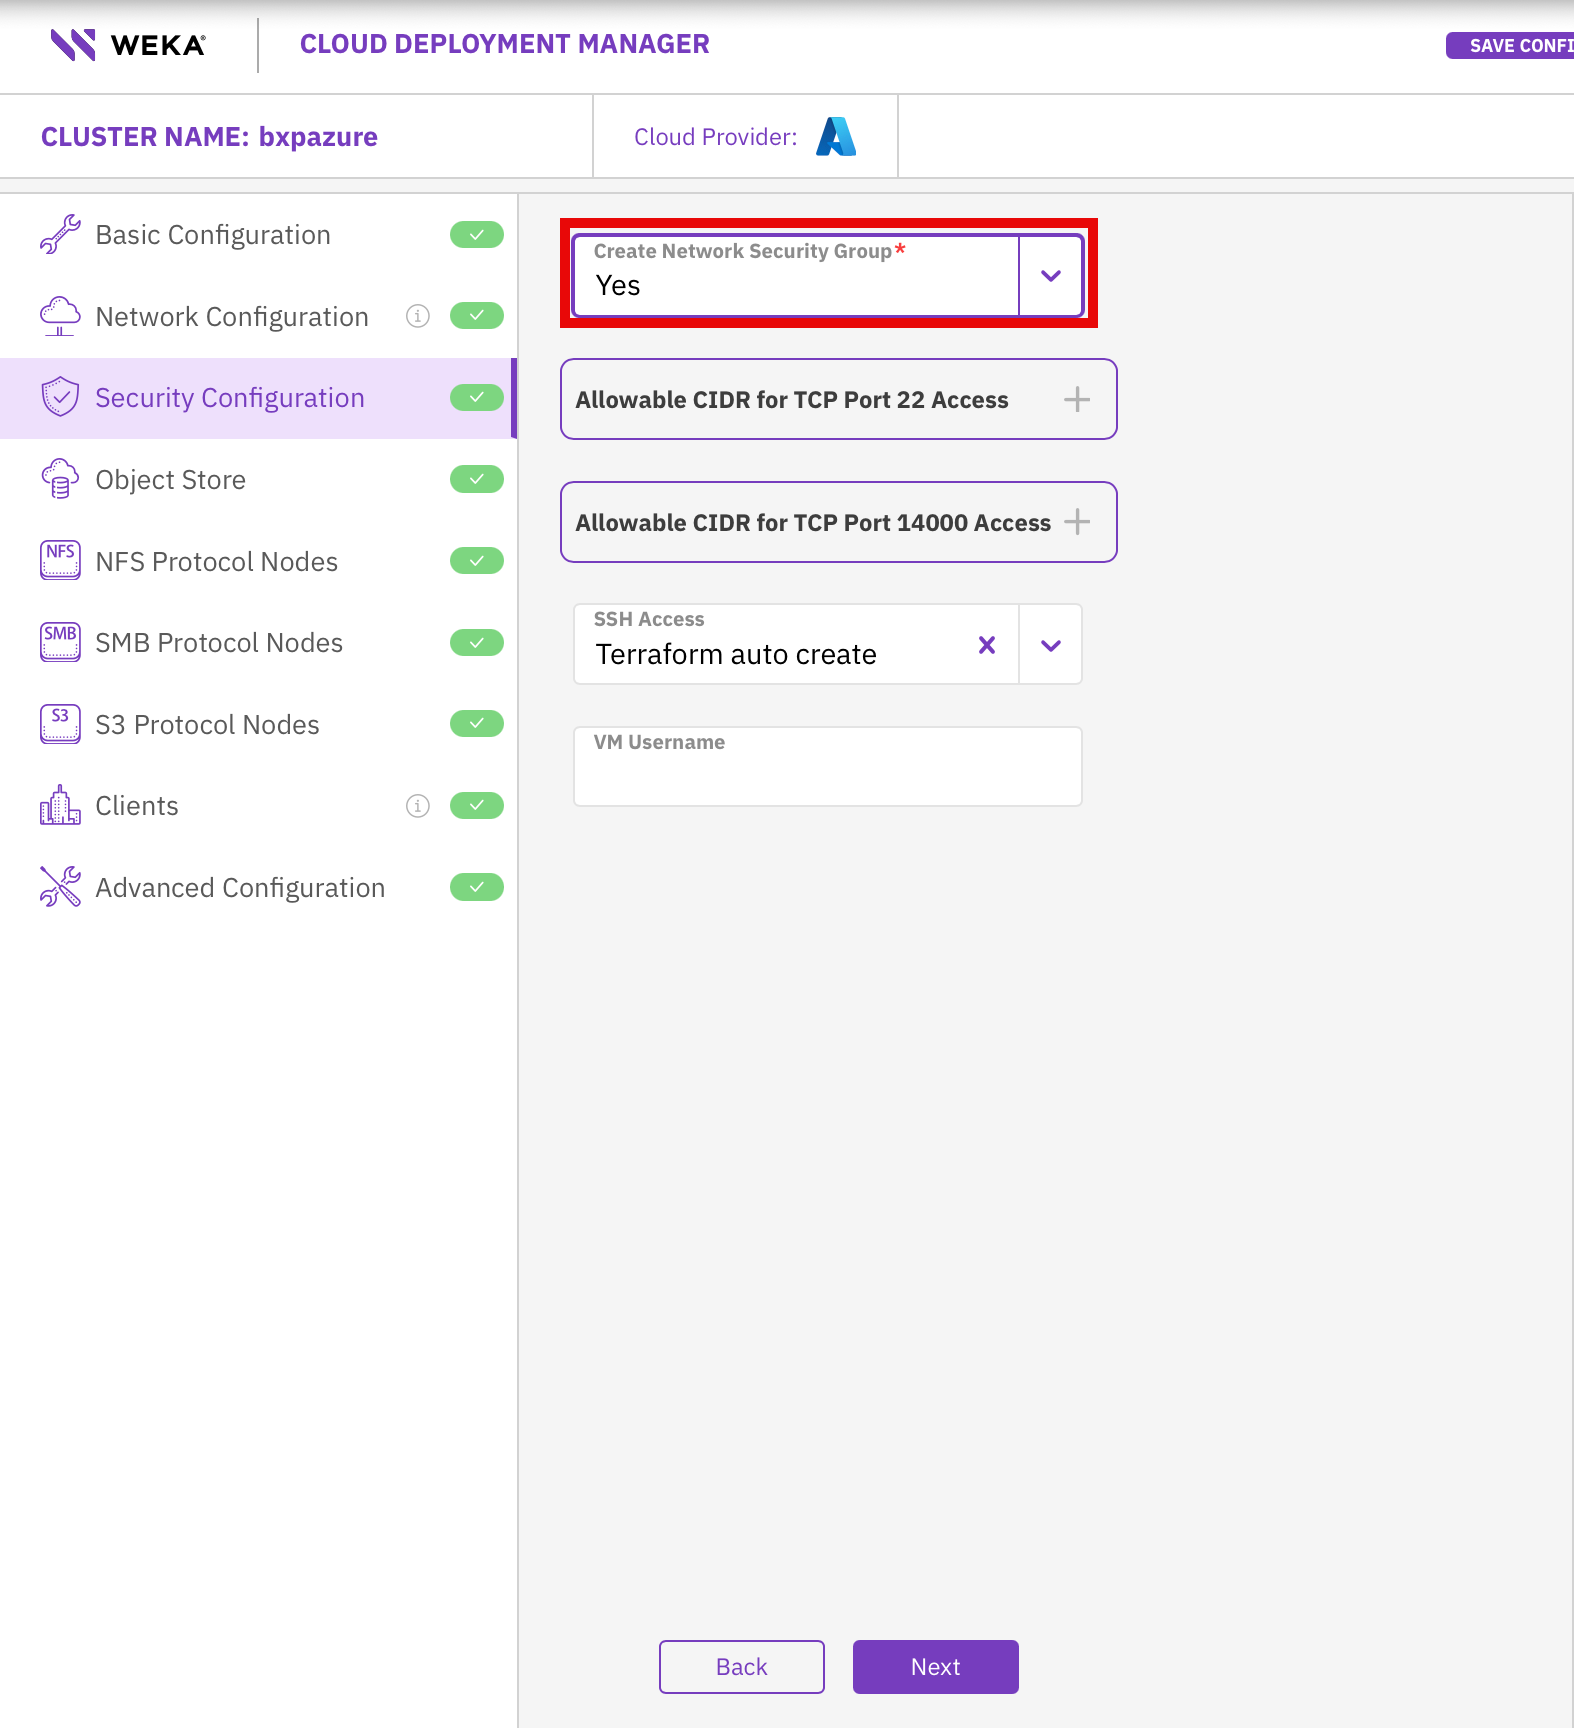
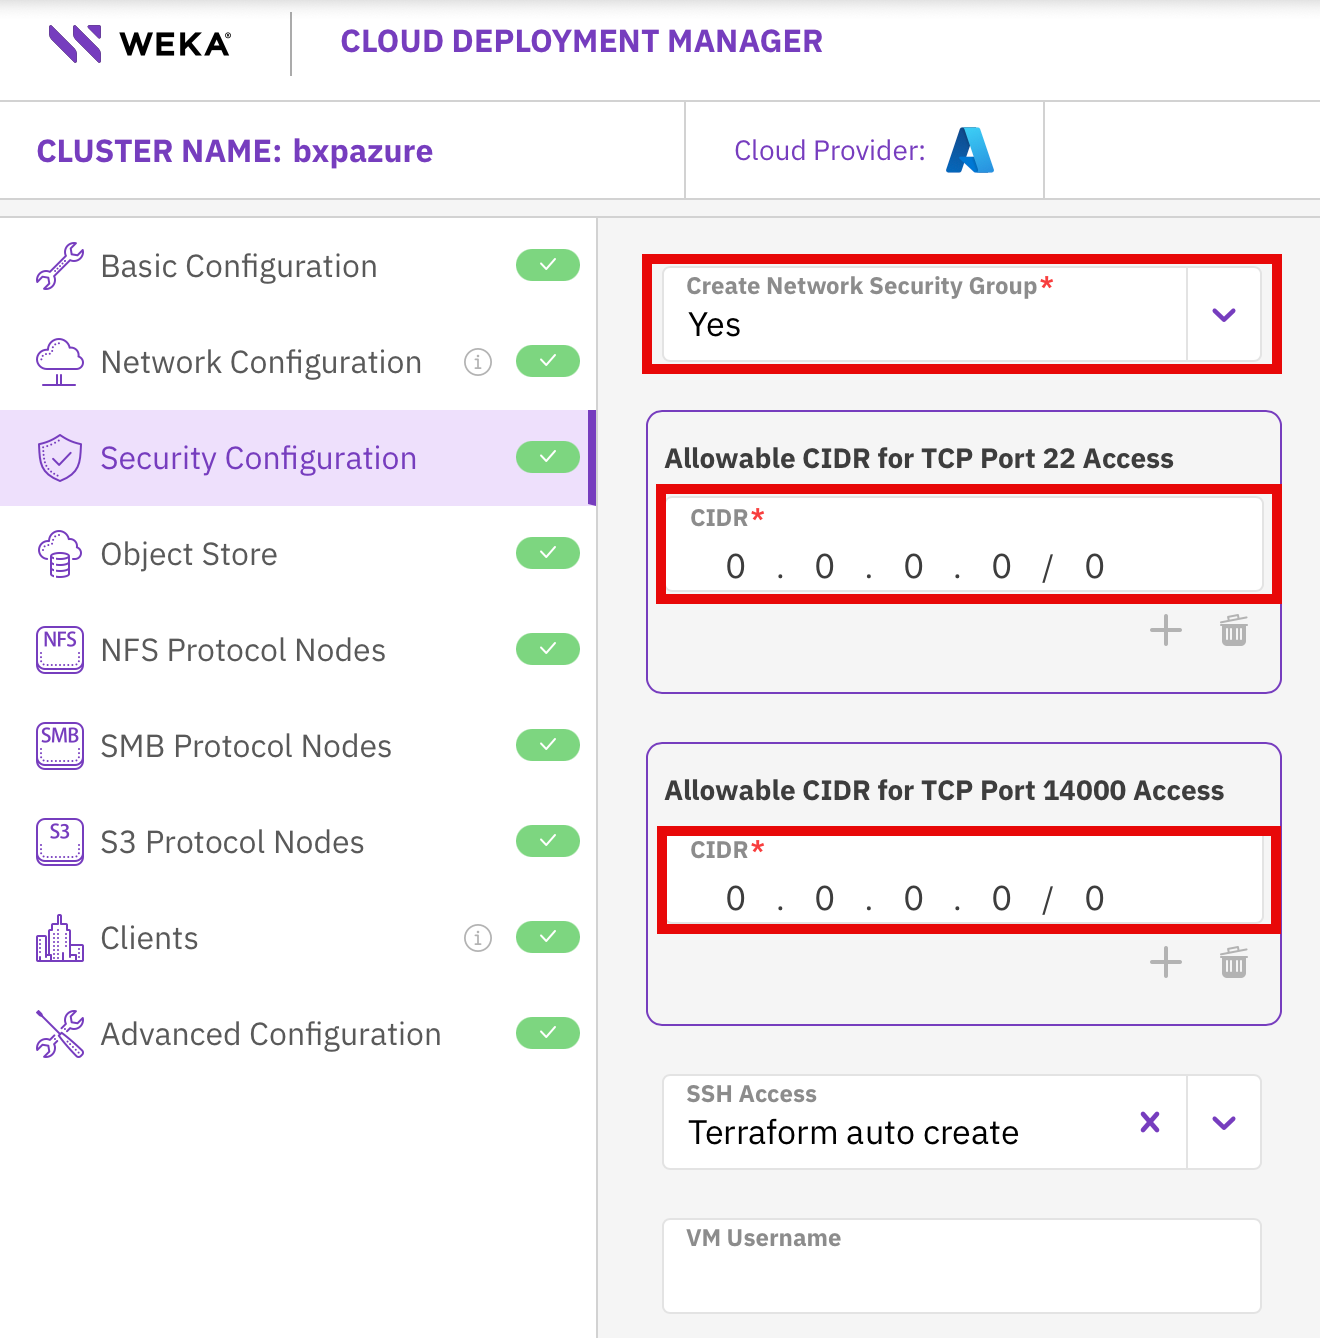
update lab

diff --git a/source/_static/custom.css b/source/_static/custom.css
@@ -45,6 +45,7 @@ img {
   position: fixed;
   top: 70px; /* Adjust based on your navbar height */
   left: 0;
+  margin-left: 20px; /* Add this line */
   width: 250px; /* Adjust as needed */
   overflow-y: auto;
   max-height: 90vh;

diff --git a/source/create_azure_cluster/create_azure_cluster.md b/source/create_azure_cluster/create_azure_cluster.md
@@ -31,7 +31,13 @@ Creating the clusters will be done with WEKA CDM [WEKA CDM](https://cloud.weka.i
 :alt: CDM Basic
 ```
 
-3.  On the Network Configuration page change "Create Vnet and Subnet" to **yes**
+3.  On the Network Configuration page 
+    - Change "Create Vnet and Subnet" to **yes**
+    - Change "Assign Public IP" to **yes**
+
+```{note}
+We are assigning a public IP only in the lab so we can connect remotely.
+```
 
 ```{image} ./images/cdm_network.png
 :width: 50%
@@ -39,7 +45,14 @@ Creating the clusters will be done with WEKA CDM [WEKA CDM](https://cloud.weka.i
 :alt: CDM Network
 ```
 
-4.  On the Security Configuration page change Create Network Security Group to **yes** 
+4.  On the Security Configuration page change 
+    - Change "Create Network Security Group" to **yes**
+    - On "Allowable CIDR for TCP Port 22 Access" add **0.0.0.0/0**
+    - On "Allowable CIDR for TCP Port 14000 Access" add **0.0.0.0/0**
+
+```{note}
+We are using 0.0.0.0/0 only in the lab so we can connect remotely. In a production deployment these should be set to valid ranges.
+```
 
 ```{image} ./images/cdm_security.png
 :width: 50%
